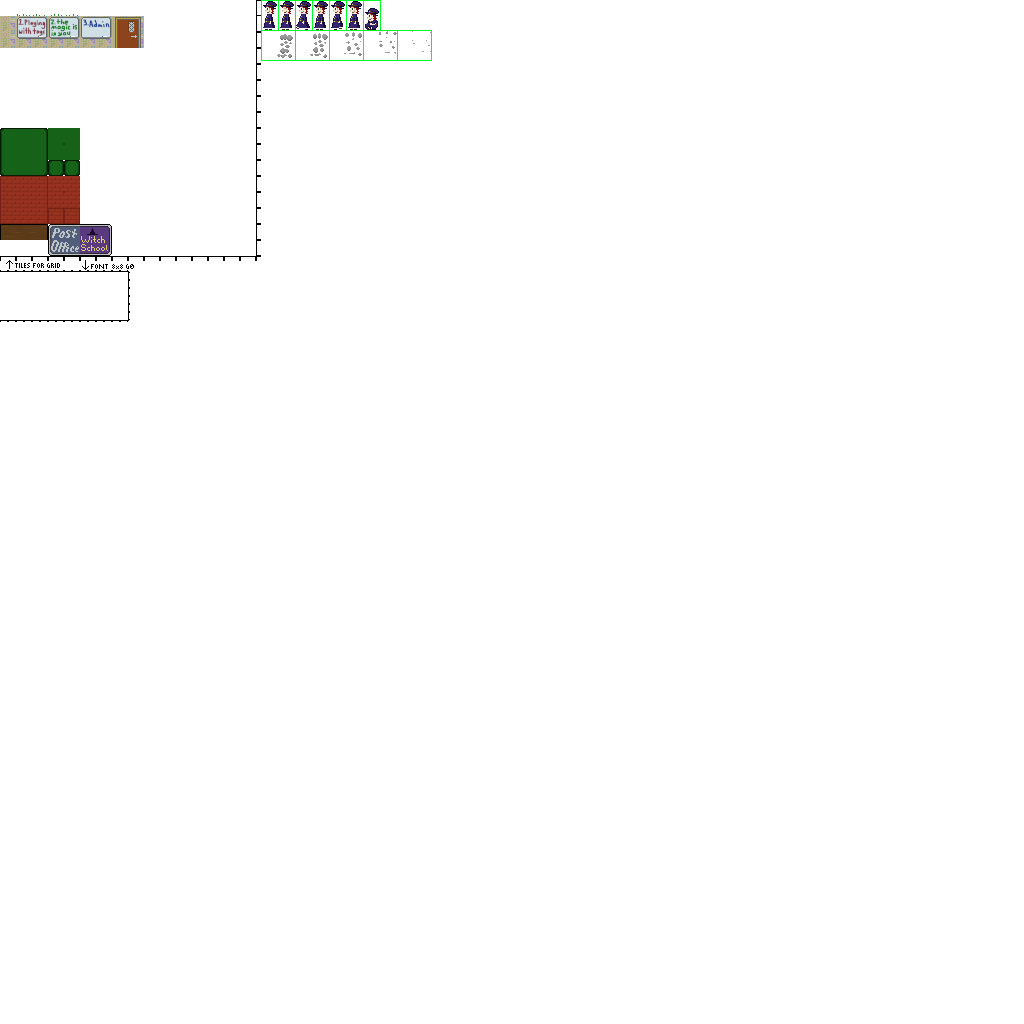
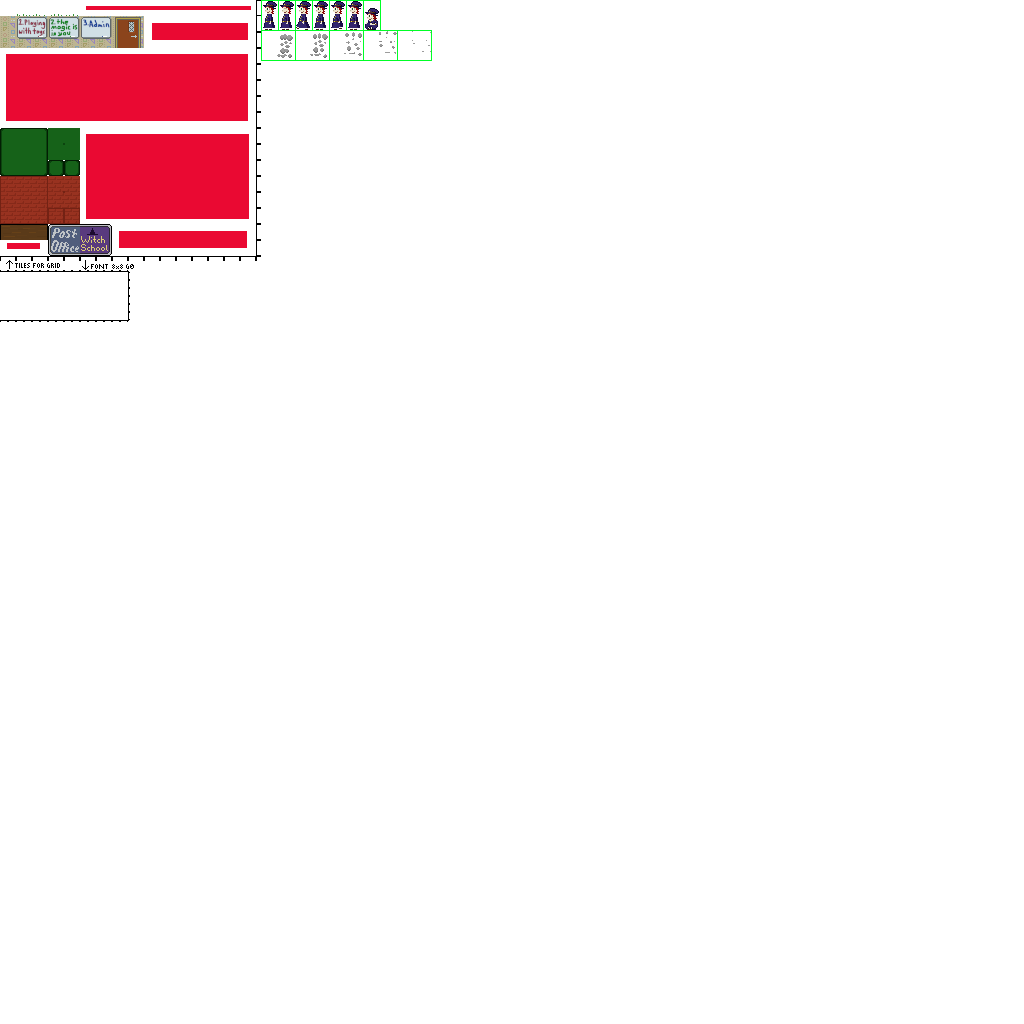
scrolling, load maps, and a map physics bug

Changed region(s): [[0.0, 0.0, 0.25, 0.25], [0.0, 0.2188, 0.0312, 0.25]]

diff --git a/src/www/js/game/Camera.js b/src/www/js/game/Camera.js
@@ -3,12 +3,33 @@
  * Tightly coupled to one Scene.
  */
  
+import { HeroSprite } from "./sprites/HeroSprite.js";
+ 
+const TILESIZE = 16;
+ 
 export class Camera {
   constructor(scene) {
     this.scene = scene;
   }
   
   getWorldBounds() {
-    return { x: 0, y: 0, w: 320, h: 160 };//TODO
+    const bounds = { x: 0, y: 0, w: 320, h: 160 };
+    const hero = this.scene.sprites.find(s => s instanceof HeroSprite);
+    if (hero) {
+      bounds.x = hero.x - (bounds.w / 2);
+      bounds.y = hero.y - (bounds.h / 2);
+      bounds.y -= 16; // cheat up a bit; Hero's focus point is at her feet.
+    }
+    if (this.scene.grid) {
+      const worldw = this.scene.grid.w * TILESIZE;
+      const worldh = this.scene.grid.h * TILESIZE;
+      if (bounds.x < 0) bounds.x = 0;
+      else if (bounds.x + bounds.w > worldw) bounds.x = worldw - bounds.w;
+      if (bounds.y < 0) bounds.y = 0;
+      else if (bounds.y + bounds.h > worldh) bounds.y = worldh - bounds.h;
+    }
+    bounds.x = ~~bounds.x;
+    bounds.y = ~~bounds.y;
+    return bounds;
   }
 }

diff --git a/src/www/js/ui/CanvasUi.js b/src/www/js/ui/CanvasUi.js
@@ -27,6 +27,16 @@ export class CanvasUi {
       if (this.game.scene.grid) this.renderGrid(this.game.scene.grid, worldBounds);
       this.renderSprites(this.game.scene.sprites, worldBounds);
       
+      /*XXX TEMP Show all physical borders *
+      this.context.fillStyle = "#f00";
+      this.context.globalAlpha = 0.75;
+      for (const sprite of this.game.scene.sprites) {
+        if (!sprite.ph) continue;
+        this.context.fillRect(sprite.ph.x - worldBounds.x + 1, sprite.ph.y - worldBounds.y + 1, sprite.ph.w - 2, sprite.ph.h - 2);
+      }
+      this.context.globalAlpha = 1;
+      /**/
+      
     } else {
       this.context.fillStyle = "#888";
       this.context.fillRect(0, 0, this.element.width, this.element.height);

diff --git a/src/www/js/game/Grid.js b/src/www/js/game/Grid.js
@@ -75,6 +75,7 @@ export class Grid {
           }
           if (!allsolid) break;
           h++;
+          subp += this.w;
         }
         this.clearRect(v, this.w, col, row, w, h);
         const sprite = new Sprite(scene);

diff --git a/README.md b/README.md
@@ -11,7 +11,7 @@ Submission for the 2023-4 GDEX Winter Game Jam.
 - [x] Physics.
 - [x] Dash: If rejected due to overlap, do move as far as we can for free.
 - [x] Gravity.
-- [ ] Scrolling camera.
+- [x] Scrolling camera.
 - [x] Duck.
 - [x] Jump.
 - [ ] Triple Jump.
